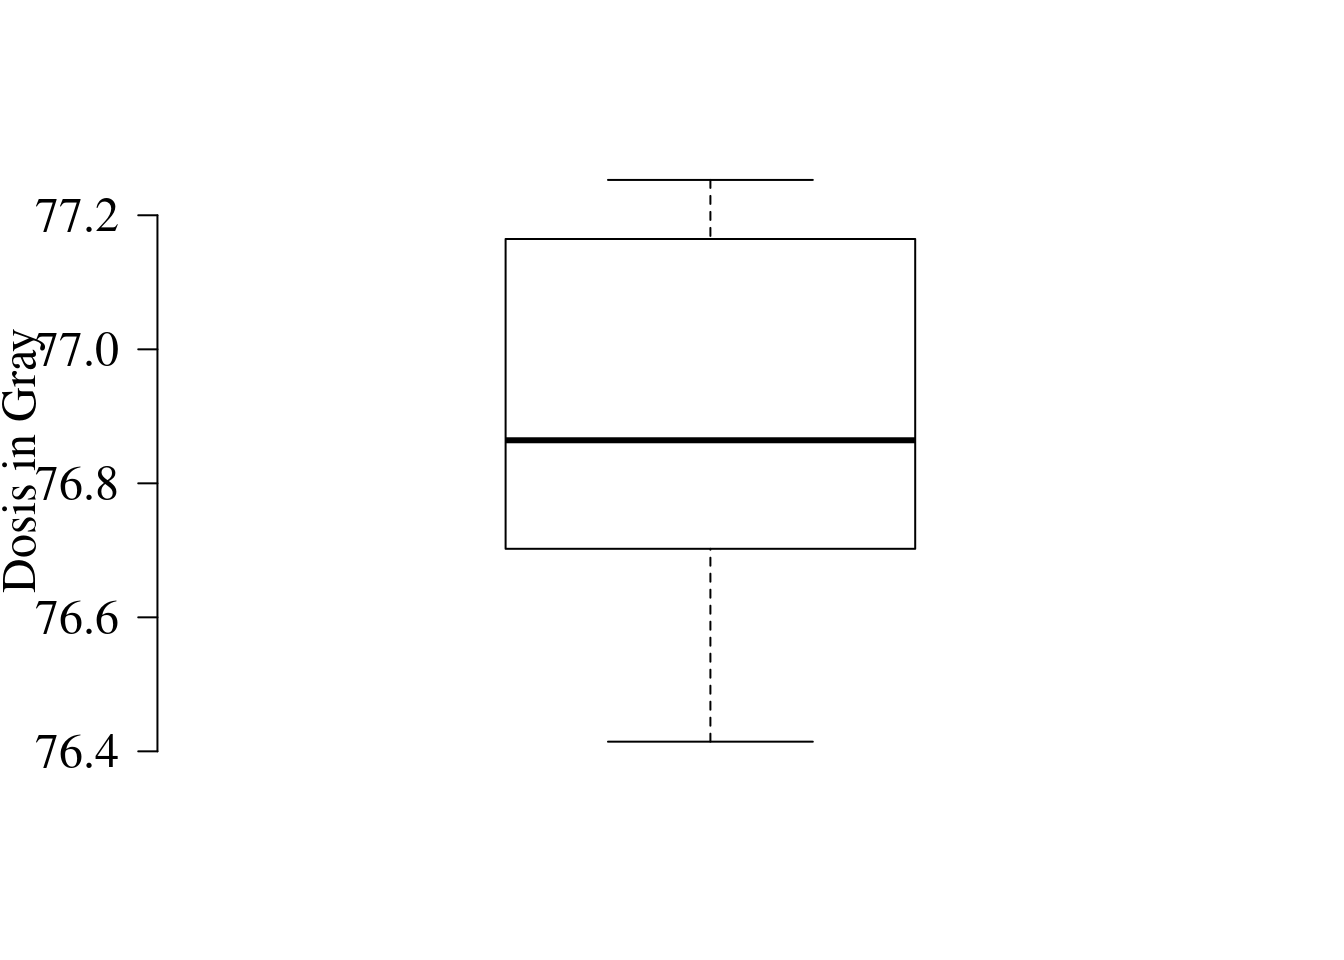
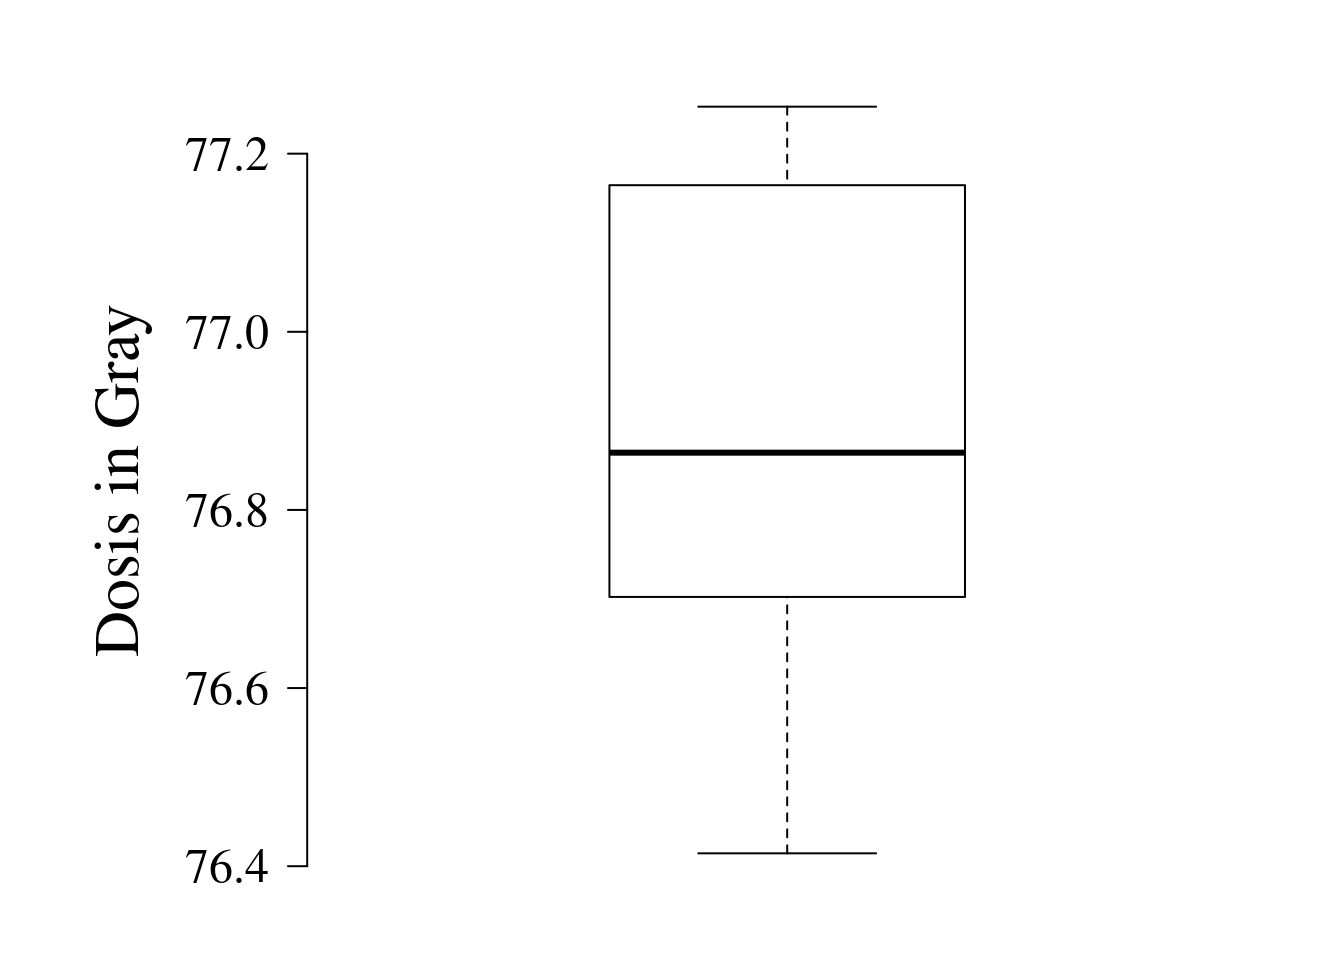
Build site.

diff --git a/docs/first-analysis.html b/docs/first-analysis.html
@@ -503,16 +503,16 @@ This reproducible <a href="http://rmarkdown.rstudio.com">R Markdown</a> analysis
 <div class="panel panel-default">
 <div class="panel-heading">
 <p class="panel-title">
-<a data-toggle="collapse" data-parent="#workflowr-checks" href="#strongRepositoryversionstrongahrefhttpsgithubcomdssrttnTesttree40b230392e68873f74eb2cd35a429311d3292bactargetblank40b2303a"> <span class="glyphicon glyphicon-ok text-success" aria-hidden="true"></span> <strong>Repository version:</strong> <a href="https://github.com/dssrttn/Test/tree/40b230392e68873f74eb2cd35a429311d3292bac" target="_blank">40b2303</a> </a>
+<a data-toggle="collapse" data-parent="#workflowr-checks" href="#strongRepositoryversionstrongahrefhttpsgithubcomdssrttnTesttree392588e6f3902d042583859da1daaa4942ba5b96targetblank392588ea"> <span class="glyphicon glyphicon-ok text-success" aria-hidden="true"></span> <strong>Repository version:</strong> <a href="https://github.com/dssrttn/Test/tree/392588e6f3902d042583859da1daaa4942ba5b96" target="_blank">392588e</a> </a>
 </p>
 </div>
[2 lines of base64/hex data omitted]
 <div class="panel-body">
 <p>
 Great! You are using Git for version control. Tracking code development and connecting the code version to the results is critical for reproducibility.
 </p>
 <p>
-The results in this page were generated with repository version <a href="https://github.com/dssrttn/Test/tree/40b230392e68873f74eb2cd35a429311d3292bac" target="_blank">40b2303</a>. See the <em>Past versions</em> tab to see a history of the changes made to the R Markdown and HTML files.
+The results in this page were generated with repository version <a href="https://github.com/dssrttn/Test/tree/392588e6f3902d042583859da1daaa4942ba5b96" target="_blank">392588e</a>. See the <em>Past versions</em> tab to see a history of the changes made to the R Markdown and HTML files.
 </p>
 <p>
 Note that you need to be careful to ensure that all relevant files for the analysis have been committed to Git prior to generating the results (you can use <code>wflow_publish</code> or <code>wflow_git_commit</code>). workflowr only checks the R Markdown file, but you know if there are other scripts or data files that it depends on. Below is the status of the Git repository when the results were generated:
@@ -565,6 +565,40 @@ Message
 </tr>
 </thead>
 <tbody>
+<tr>
+<td>
+Rmd
+</td>
+<td>
+<a href="https://github.com/dssrttn/Test/blob/392588e6f3902d042583859da1daaa4942ba5b96/analysis/first-analysis.Rmd" target="_blank">392588e</a>
+</td>
+<td>
+Mein Vorname
+</td>
+<td>
+2020-06-22
+</td>
+<td>
+Verbesserungen histogramm und boxplot
+</td>
+</tr>
+<tr>
+<td>
+html
+</td>
+<td>
+<a href="https://rawcdn.githack.com/dssrttn/Test/0965294d32cacb1d68a8962a45999c0faba1c1e4/docs/first-analysis.html" target="_blank">0965294</a>
+</td>
+<td>
+Mein Vorname
+</td>
+<td>
+2020-06-22
+</td>
+<td>
+Build site.
+</td>
+</tr>
 <tr>
 <td>
 Rmd
@@ -930,6 +964,17 @@ Date
 <tbody>
 <tr>
 <td>
+<a href="https://github.com/dssrttn/Test/blob/0965294d32cacb1d68a8962a45999c0faba1c1e4/docs/figure/first-analysis.Rmd/unnamed-chunk-3-1.png" target="_blank">0965294</a>
+</td>
+<td>
+Mein Vorname
+</td>
+<td>
+2020-06-22
+</td>
+</tr>
+<tr>
+<td>
 <a href="https://github.com/dssrttn/Test/blob/97d6332ba88298e3f6b9bd63debd23db392d248e/docs/figure/first-analysis.Rmd/unnamed-chunk-3-1.png" target="_blank">97d6332</a>
 </td>
 <td>
@@ -944,23 +989,68 @@ Mein Vorname
 </div>
 </div>
 <pre class="r"><code>par(bty=&quot;n&quot;) # keinen Rahmen
+par(family=&quot;serif&quot;) # Schriftart
+par(mar = c(2, 8, 2, 2)) # Abstände um den Plot. 2. Position y-Achse
+par(mgp=c(4.2,1,0)) # mpg: Abstand Label zu Achse
 boxplot(DIL_1$Mittelwert, 
-        ylab=&quot;Dosis in Gray&quot;, #y-Achse-Beschriftung  
+        ylab= &quot;Dosis in Gray&quot;, #y-Achse-Beschriftung  
         #yaxt=&quot;n&quot;, #suppresses y-axis. Brauch ich das? 
         col=&quot;transparent&quot;, #Farbe des Boxplots
         las = 2, # horizontale Markierung der Tick-Beschriftungen
         ylim=c(min(DIL_1$Mittelwert), max(DIL_1$Mittelwert)), # y-Achse range
-        cex.lab = 1.5, # Größe Label-Beschriftung
-        cex.axis = 1.5, # Größe Achsenbeschriftungen
-        mgp=c(5,1,0) # mpg: Abstand Label zu Achse
+        cex.lab = 2, # Größe Label-Beschriftung
+        cex.axis = 1.5 # Größe Achsenbeschriftungen
+        #mgp=c(3,1,0) # mpg: Abstand Label zu Achse
+     # , xpd = TRUE
+      #labels = FALSE
         )</code></pre>
 <p><img src="figure/first-analysis.Rmd/unnamed-chunk-3-2.png" width="672" style="display: block; margin: auto;" /></p>
+<p>
+<button type="button" class="btn btn-default btn-xs btn-workflowr btn-workflowr-fig" data-toggle="collapse" data-target="#fig-unnamed-chunk-3-2">
+Past versions of unnamed-chunk-3-2.png
+</button>
+</p>
+<div id="fig-unnamed-chunk-3-2" class="collapse">
+<div class="table-responsive">
+<table class="table table-condensed table-hover">
+<thead>
+<tr>
+<th>
+Version
+</th>
+<th>
+Author
+</th>
+<th>
+Date
+</th>
+</tr>
+</thead>
+<tbody>
+<tr>
+<td>
+<a href="https://github.com/dssrttn/Test/blob/0965294d32cacb1d68a8962a45999c0faba1c1e4/docs/figure/first-analysis.Rmd/unnamed-chunk-3-2.png" target="_blank">0965294</a>
+</td>
+<td>
+Mein Vorname
+</td>
+<td>
+2020-06-22
+</td>
+</tr>
+</tbody>
+</table>
+</div>
+</div>
 <div id="ein-weiterer-unterpunkt" class="section level3">
 <h3>Ein weiterer Unterpunkt</h3>
 </div>
 <div id="noch-einer" class="section level3">
 <h3>Noch einer</h3>
-<pre class="r"><code>hist(DIL_1$Mittelwert, main=&quot;DIL Mittelwert&quot;, ylab=&quot;Dichte der Dosiswerte&quot;, xlab=&quot;Dosis in Gray&quot;, mgp=c(3,1,0), las = 1, freq = FALSE, ylim=c(0, 2), xlim=c(76.2, 77.6), cex.lab=1.5, cex.axis=1.5, col = &quot;transparent&quot;)
+<pre class="r"><code>par(family=&quot;serif&quot;) # Schriftart
+par(mar = c(2, 8, 2, 2)) # Abstände um den Plot. 2. Position y-Achse
+par(mgp=c(4.2,1,0)) # mpg: Abstand Label zu Achse
+hist(DIL_1$Mittelwert, main=&quot;DIL Mittelwert&quot;, ylab=&quot;Dichte der Dosiswerte&quot;, xlab=&quot;Dosis in Gray&quot;, mgp=c(3,1,0), las = 1, freq = FALSE, ylim=c(0, 2), xlim=c(76.2, 77.6), cex.lab=2, cex.axis=2, col = &quot;transparent&quot;)
 rug(jitter(DIL_1$Mittelwert))
 lines(density(DIL_1$Mittelwert), col=&quot;black&quot;, lwd=2)</code></pre>
 <p><img src="figure/first-analysis.Rmd/unnamed-chunk-4-1.png" width="672" style="display: block; margin: auto;" /></p>
